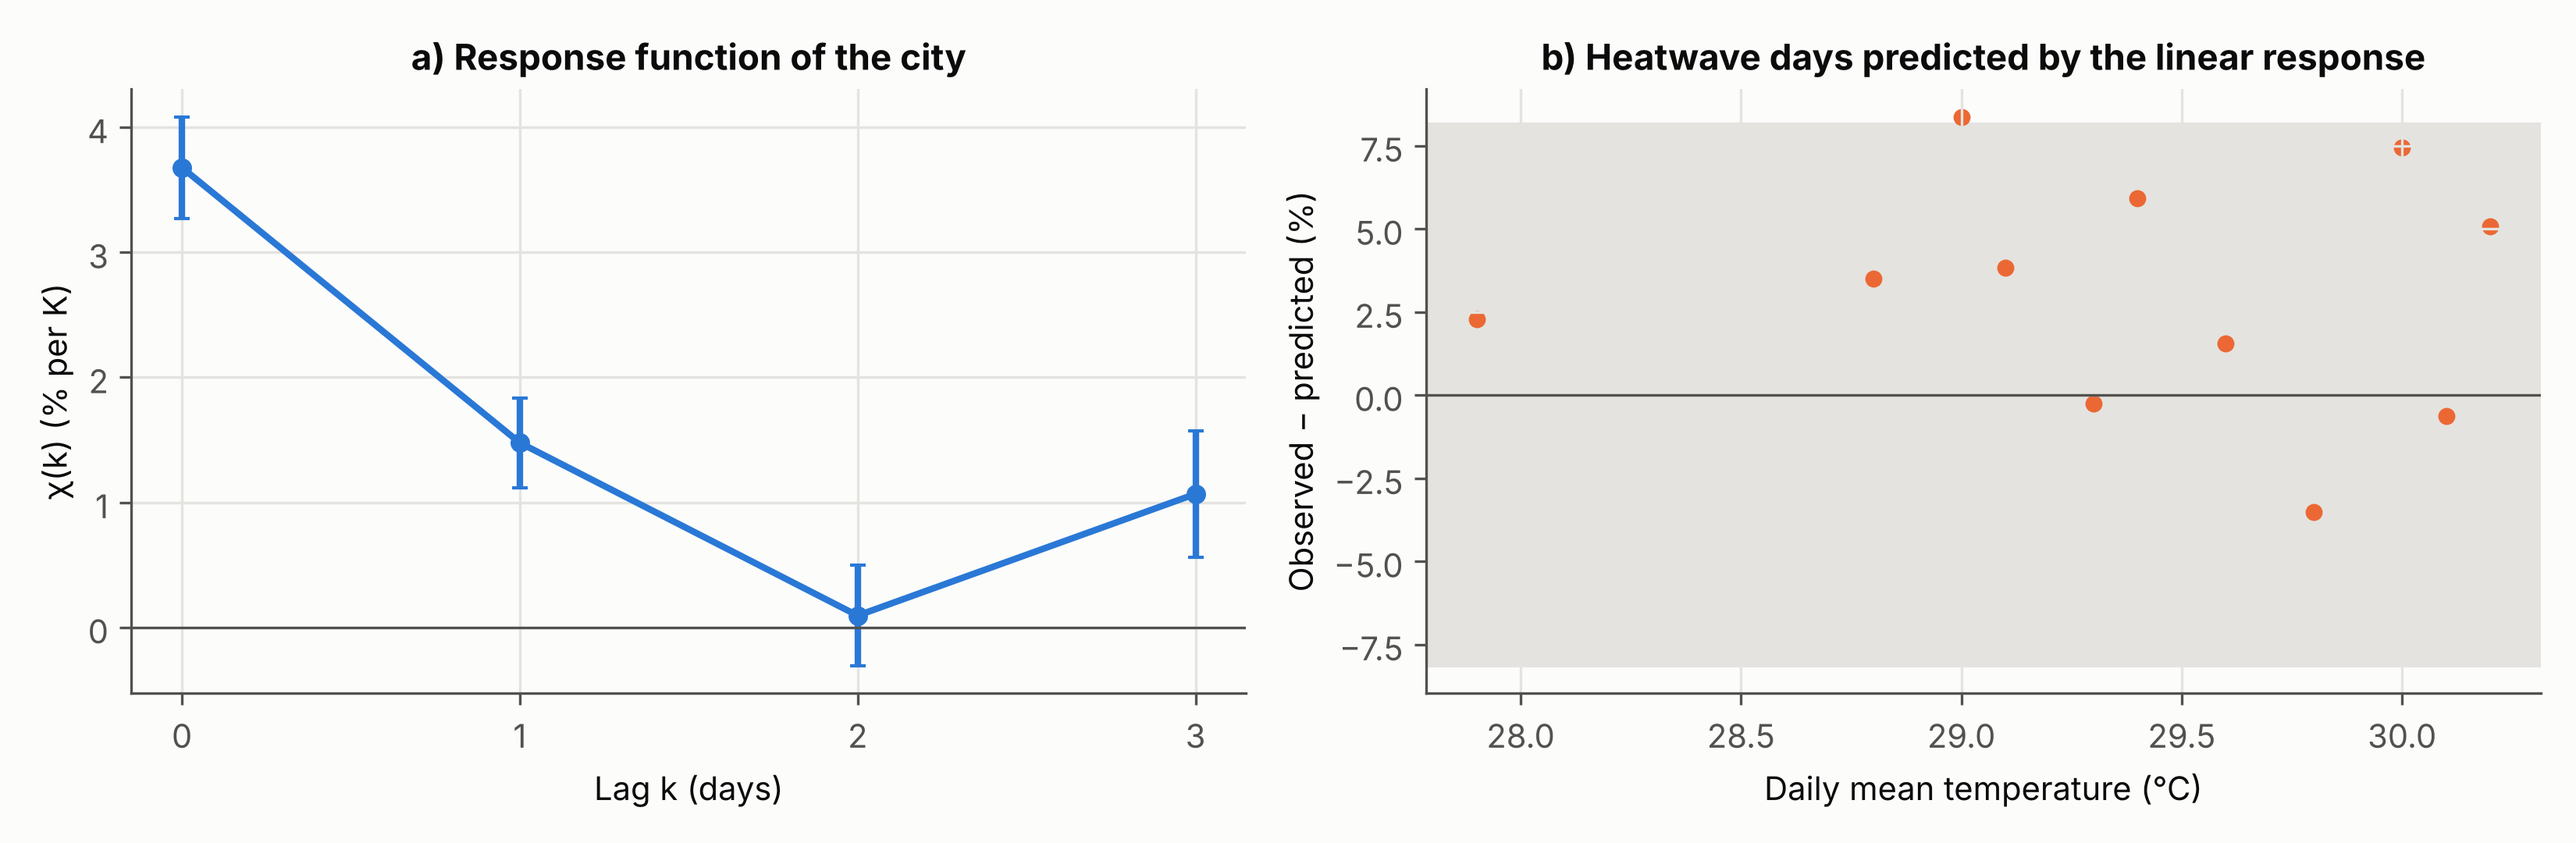
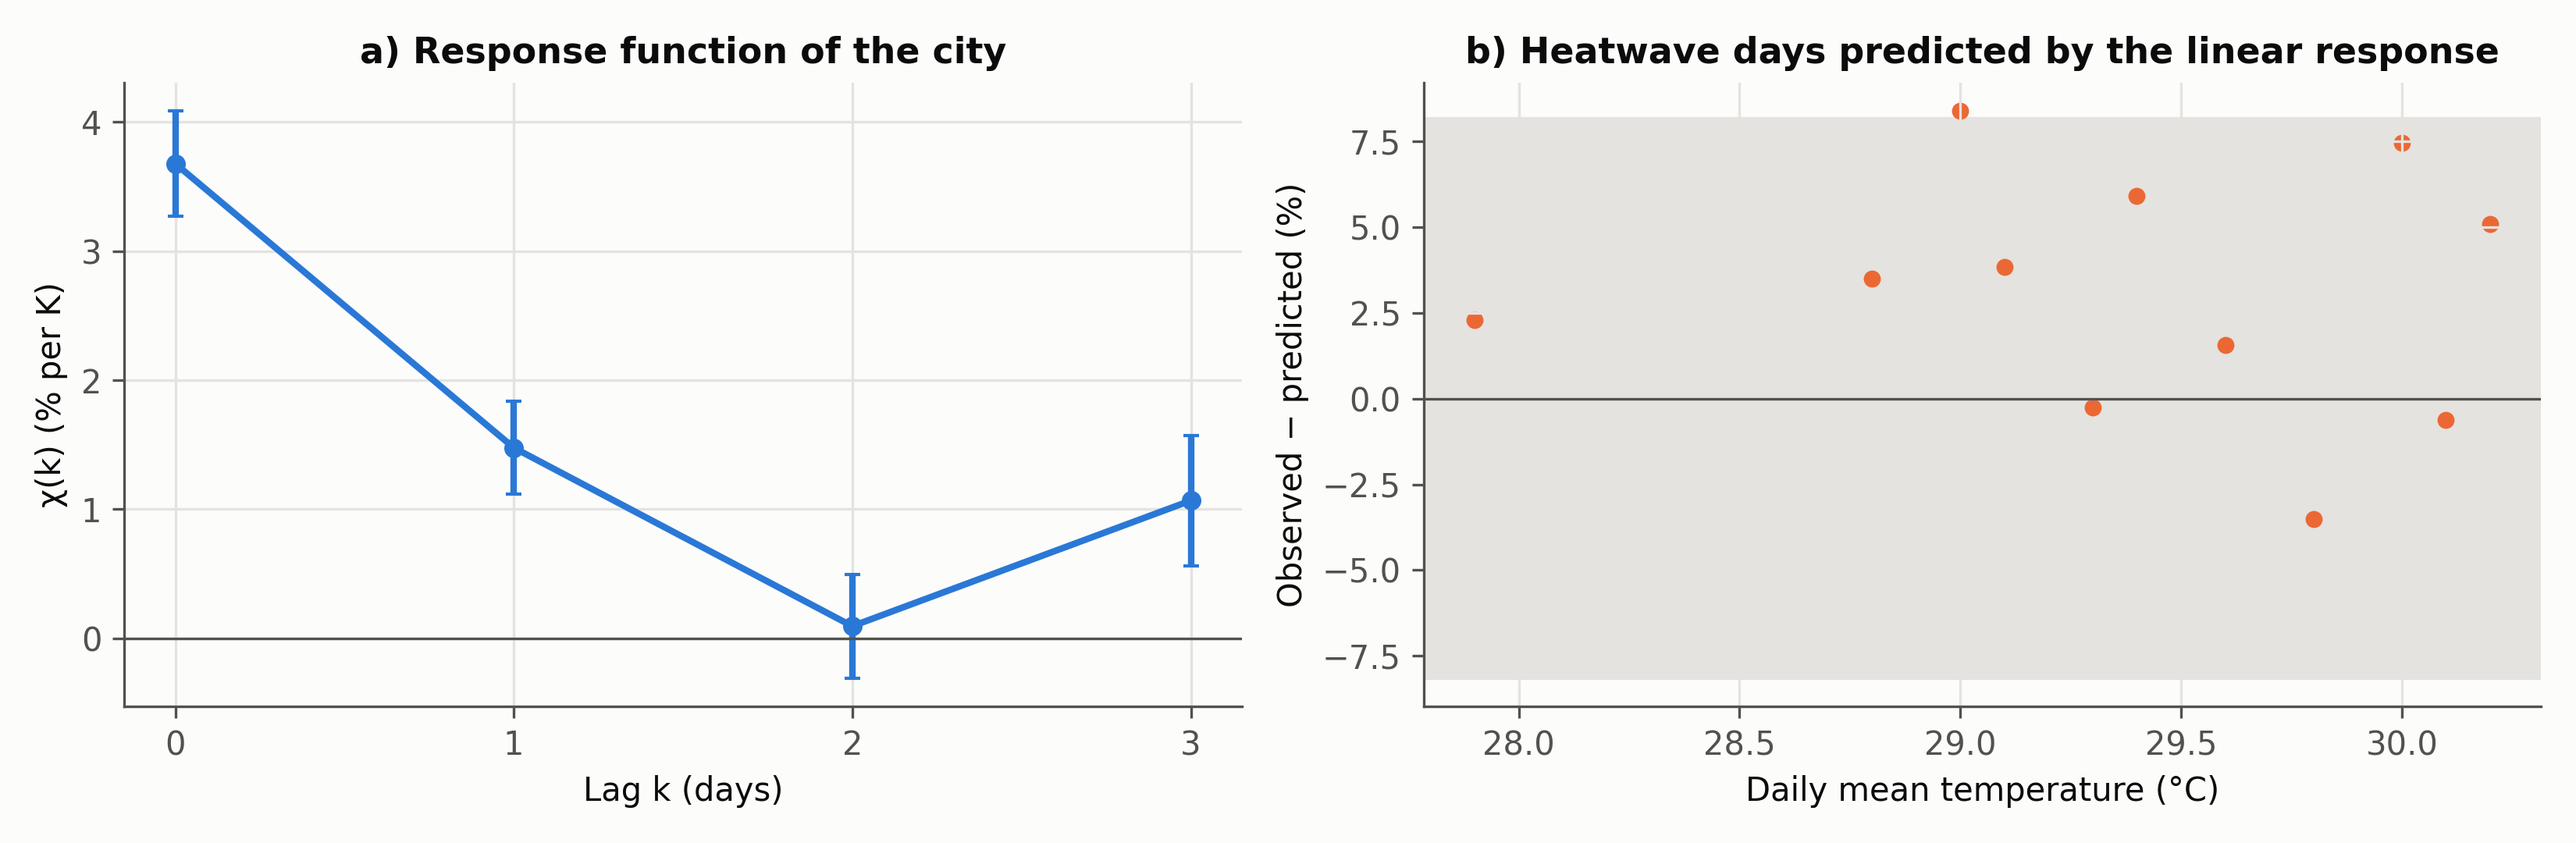
v0.13.1: export every results table; figures from the Colab run
- the zip now contains one CSV per result (R1-R6, robustness, curves, lambda,
  day-night, cold, hysteresis, anthropogenic heat) with exact numbers
- docs/figures_v13 replaced by the Colab run (robustness now includes dew
  point and electricity price: 13 of 14 tests with z > 2)
- Colab and local runs give identical summary tables

Claude-Session: https://claude.ai/code/session_017jXfMnTx1Zi62fjKTLsYpL

diff --git a/docs/article1.md b/docs/article1.md
@@ -1,15 +1,15 @@
-# Article 1 · resultats de la versió depurada (notebook v0.13, 24/10/2026)
+# Article 1 · resultats de la versió depurada (notebook v0.13, executat a Colab el 24/10/2026)
 
 Notebook: `notebooks/resposta_calor_bcn_v13.ipynb` (13 seccions, només el que és publicable).
 Arxiu complet amb totes les anàlisis exploratòries: `notebooks/resposta_calor_bcn_v12.ipynb`.
-Executat amb les dades d'Open Data BCN · Datadis fins al 30/11/2025 i ERA5. Escala de ciutat (42 CP).
+Executat a Colab amb les dades d'Open Data BCN · Datadis fins al 30/11/2025 i ERA5; reproduït exactament en local. Escala de ciutat (42 CP).
 
 ## Afirmacions de l'article
 
 | # | Afirmació | Estat |
 |---|---|---|
 | R1 | La ciutat respon a la calor amb ~6 % de consum residencial per grau, amb memòria d'1-2 dies; la resposta lineal prediu les onades | Sòlid (regressió = correlacions). Residu d'onada +3 % amb 11 dies: sense saturació; possible amplificació petita, no concloent |
-| R2 | La resposta creix de 4,3 a 7,2 %/K entre el 2021 i el 2024 | Sòlid: 11 de 12 proves amb z > 2; també amb tots els sectors sumats (composició) i en absolut (535 → 931 MWh/dia per K, tots els sectors). Només juny + setembre no creix: el creixement és als mesos calents |
+| R2 | La resposta creix de 4,3 a 7,2 %/K entre el 2021 i el 2024 | Sòlid: 13 de 14 proves amb z > 2 (a Colab, amb humitat ≈ +2,5 i preu ≈ +2,9 %/K, valors llegits de la figura 2; els exactes surten a `r2_robustesa.csv` des de la v0.13.1); també amb tots els sectors sumats (composició) i en absolut (535 → 931 MWh/dia per K, tots els sectors). Només juny + setembre no creix: el creixement és als mesos calents |
 | R3 | El creixement és un canvi d'amplitud amb la mateixa forma de corba (model de llindars), λ = 1,00 / 1,27 / 1,54 / 1,84 / 1,83 | Test de tota la corba p = 0,18 (*post hoc*). El test pre-especificat falla a la part < 24 °C (p = 0,00, per culpa del 2025) i passa a la part ≥ 24 °C (p = 0,07) |
 | R4 | La resposta que creix és la de la calor de nit, a les quatre franges horàries; la de la calor de dia no creix a cap | Sòlid amb només dies del règim A (alerta 2): 0-6 h nit +4,3 ± 0,9 vs dia +0,3 ± 0,8 %/K |
 | R5 | Fred: resposta estable (3,7 ± 0,2 %/K per sota de 15,5 °C); la V es fa menys simètrica (R = χ_h/χ_c de ~0,7 a ~0,45-0,6) | El canvi de χ_h no és robust (+1,4 / +0,1 / −0,3 segons la versió); la caiguda de R sí que es veu a les tres versions |
@@ -70,6 +70,7 @@ Executat amb les dades d'Open Data BCN · Datadis fins al 30/11/2025 i ERA5. Esc
 ## Pendent per enviar l'article
 
 - [ ] Validació externa del total anual de consum (Ajuntament / ICAEN) i correu a Open Data BCN amb les incidències.
-- [ ] Executar la v0.13 a Colab amb humitat i preu (memòria cau a `dades_tesi`) i confirmar R2.
+- [x] v0.13 executada a Colab (24/10): resultats idèntics a l'execució local; humitat i preu no expliquen el creixement.
+- [ ] Tornar a executar la v0.13.1 per tenir totes les taules en CSV (números exactes per a l'article).
 - [ ] Penetració d'aire condicionat (sèrie temporal independent) per separar aparells i ús (pilot CEE: 13-42 %).
 - [ ] Estructura de l'article amb l'AiEM (coautors).
